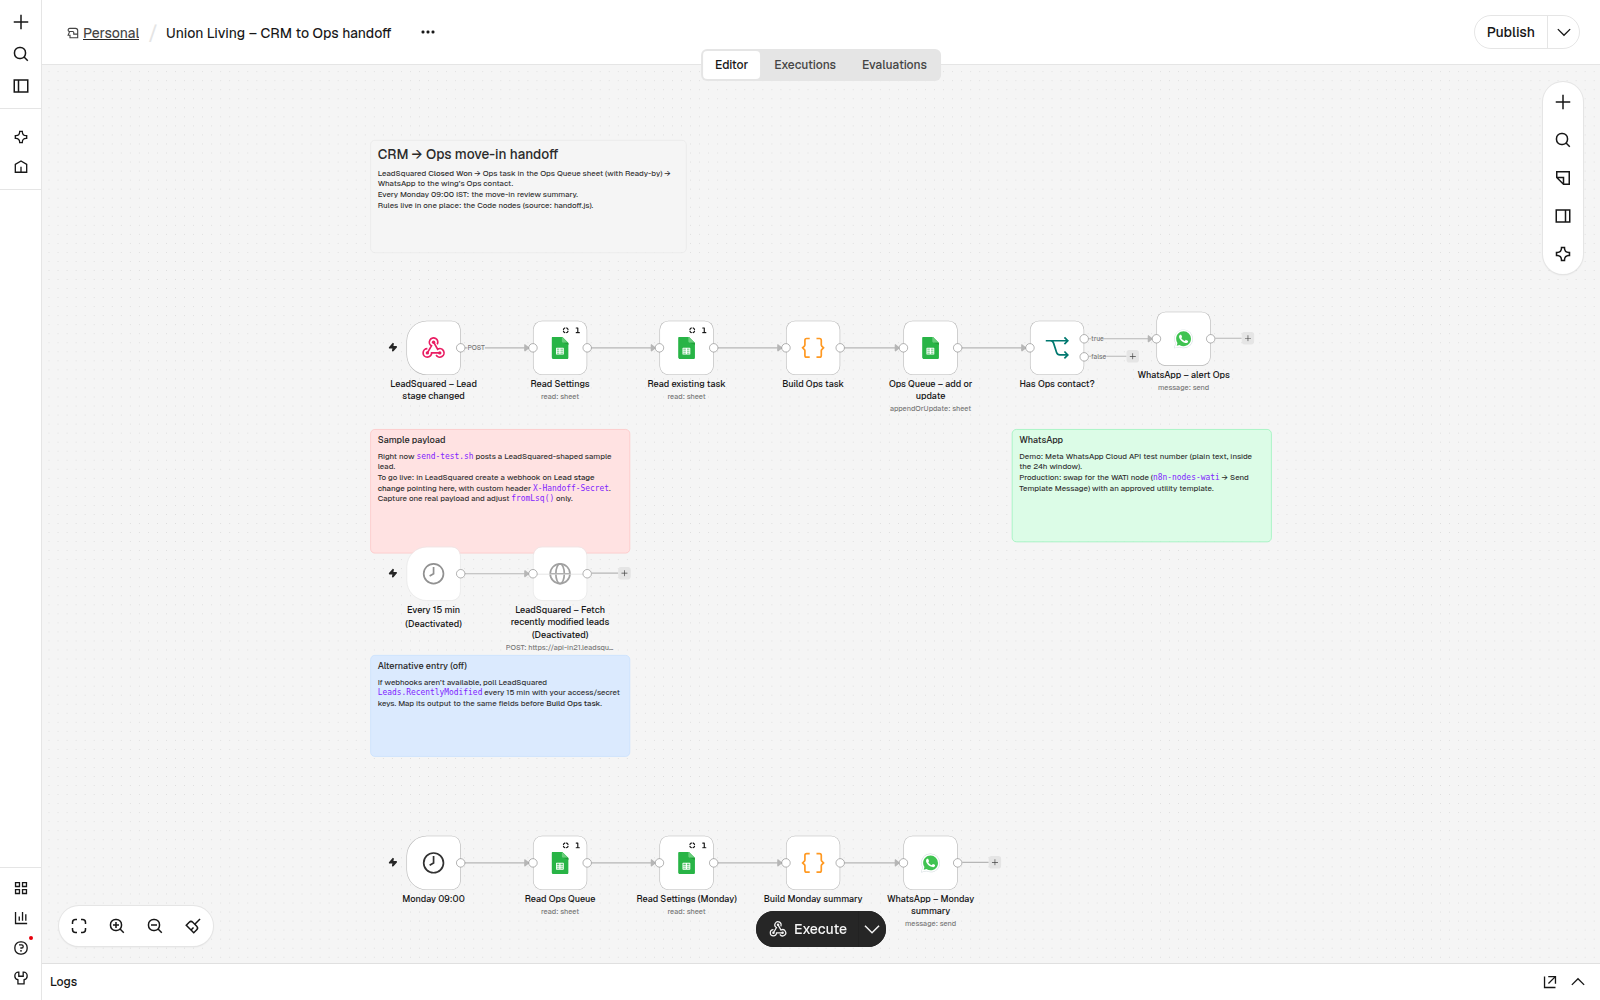
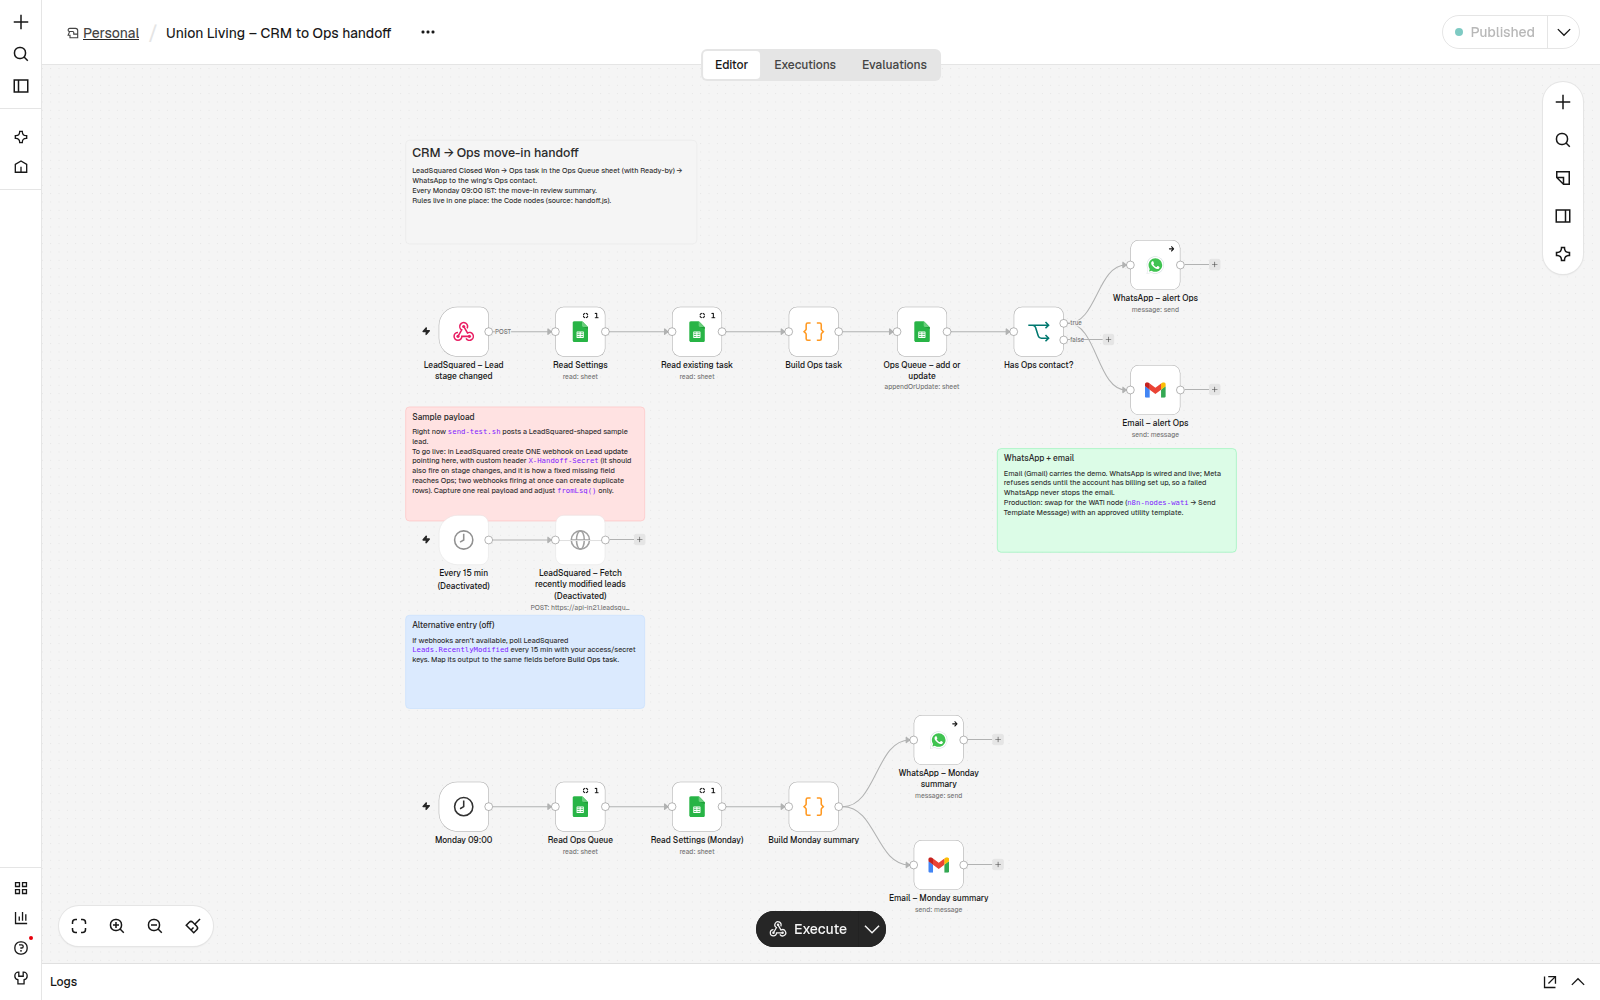
Email alerts alongside WhatsApp; WhatsApp continues on error until Meta billing is set

diff --git a/build.js b/build.js
@@ -13,6 +13,7 @@ const doc = { __rl: true, mode: 'id', value: SHEET_ID };
 const tab = (name) => ({ __rl: true, mode: 'name', value: name });
 const sheetsCred = { googleSheetsOAuth2Api: { id: 'ulGoogleSheets01', name: 'Google Sheets account' } };
 const waCred = { whatsAppApi: { id: 'ulWhatsApp000001', name: 'WhatsApp account' } };
+const gmailCred = { gmailOAuth2: { id: 'ulGmail000000001', name: 'Gmail account' } };
 let n = 0;
 const node = (name, type, typeVersion, position, parameters, extra = {}) =>
   ({ id: `00000000-0000-4000-8000-${String(++n).padStart(12, '0')}`, name, type: `n8n-nodes-base.${type}`, typeVersion, position, parameters, ...extra });
@@ -21,7 +22,10 @@ const sticky = (name, content, position, width, height, color) =>
 const readRows = (name, sheet, position, extra = {}) =>
   node(name, 'googleSheets', 4.7, position, { documentId: doc, sheetName: tab(sheet), options: {} }, { credentials: sheetsCred, alwaysOutputData: true, executeOnce: true, ...extra });
 const whatsapp = (name, position, to, text) =>
-  node(name, 'whatsApp', 1.1, position, { operation: 'send', phoneNumberId: WA_PHONE_ID, recipientPhoneNumber: to, textBody: text, additionalFields: {} }, { credentials: waCred });
+  node(name, 'whatsApp', 1.1, position, { operation: 'send', phoneNumberId: WA_PHONE_ID, recipientPhoneNumber: to, textBody: text, additionalFields: {} }, { credentials: waCred, onError: 'continueRegularOutput' });
+// ponytail: WhatsApp is live but Meta refuses sends until the account has billing; continueRegularOutput keeps the run (and the email) going
+const gmail = (name, position, to, subject, text) =>
+  node(name, 'gmail', 2.1, position, { sendTo: to, subject, emailType: 'text', message: text, options: { appendAttribution: false } }, { credentials: gmailCred, webhookId: `9e1a0000-0000-4000-8000-${String(n + 1).padStart(12, '0')}` });
 
 const BUILD_TASK = `${LOGIC}
 const lead = fromLsq($('LeadSquared – Lead stage changed').first().json.body);
@@ -30,19 +34,20 @@ const stage = (settings.find((s) => s.Role === 'Trigger stage') || {}).Name || '
 if (!isTrigger(lead, stage)) return [];
 const existing = lead.leadId ? ($('Read existing task').all().map((i) => i.json).find((r) => String(r['LSQ Lead ID']) === lead.leadId) || null) : null;
 const t = buildTask(lead, new Date(), settings, existing);
-return [{ json: { ...t.row, _to: t.to || '', _text: t.text } }];`;
+return [{ json: { ...t.row, _to: t.to || '', _email: t.email || '', _subject: t.subject, _text: t.text } }];`;
 
 const BUILD_SUMMARY = `${LOGIC}
 const rows = $('Read Ops Queue').all().map((i) => i.json).filter((r) => r.Status);
 const text = mondaySummary(rows, new Date(), '${SHEET_URL}');
 return $('Read Settings (Monday)').all().map((i) => i.json)
-  .filter((s) => ['Wing Ops', 'Ops Head'].includes(s.Role) && String(s.WhatsApp || '').trim())
-  .map((s) => ({ json: { _to: String(s.WhatsApp).trim(), _text: text } }));`;
+  .filter((s) => ['Wing Ops', 'Ops Head'].includes(s.Role) && (String(s.WhatsApp || '').trim() || String(s.Email || '').trim()))
+  .map((s) => ({ json: { _to: String(s.WhatsApp || '').trim(), _email: String(s.Email || '').trim(), _subject: text.split('\\n')[0], _text: text } }))
+  .filter((m, i, all) => all.findIndex((x) => x._to === m._to && x._email === m._email) === i); // one message per person`;
 
 const nodes = [
   sticky('Note – what this is', '## CRM → Ops move-in handoff\nLeadSquared **Closed Won** → Ops task in the Ops Queue sheet (with Ready-by) → WhatsApp to the wing\'s Ops contact.\nEvery Monday 09:00 IST: the move-in review summary.\nRules live in one place: the Code nodes (source: handoff.js).', [-60, -320], 560, 200, 7),
   sticky('Note – sample payload', '### Sample payload\nRight now `send-test.sh` posts a LeadSquared-shaped sample lead.\nTo go live: in LeadSquared create ONE webhook on **Lead update** pointing here, with custom header `X-Handoff-Secret` (it should also fire on stage changes, and it is how a fixed missing field reaches Ops; two webhooks firing at once can create duplicate rows). Capture one real payload and adjust `fromLsq()` only.', [-60, 190], 460, 220, 3),
-  sticky('Note – WhatsApp', '### WhatsApp\nDemo: Meta WhatsApp Cloud API test number (plain text, inside the 24h window).\nProduction: swap for the WATI node (`n8n-nodes-wati` → Send Template Message) with an approved utility template.', [1060, 190], 460, 200, 4),
+  sticky('Note – WhatsApp', '### WhatsApp + email\nEmail (Gmail) carries the demo. WhatsApp is wired and live; Meta refuses sends until the account has billing set up, so a failed WhatsApp never stops the email.\nProduction: swap for the WATI node (`n8n-nodes-wati` → Send Template Message) with an approved utility template.', [1060, 260], 460, 200, 4),
   sticky('Note – polling', '### Alternative entry (off)\nIf webhooks aren\'t available, poll LeadSquared `Leads.RecentlyModified` every 15 min with your access/secret keys. Map its output to the same fields before **Build Ops task**.', [-60, 590], 460, 180, 5),
 
   node('LeadSquared – Lead stage changed', 'webhook', 2.2, [0, 0], { httpMethod: 'POST', path: 'lsq-lead-stage', authentication: 'headerAuth', responseMode: 'onReceived', options: {} },
@@ -60,12 +65,16 @@ const nodes = [
   node('Has Ops contact?', 'if', 2.2, [1100, 0], {
     conditions: {
       options: { caseSensitive: true, leftValue: '', typeValidation: 'strict', version: 2 },
-      conditions: [{ id: 'c0ffee00-0000-4000-8000-000000000001', leftValue: "={{ $('Build Ops task').item.json._to }}", rightValue: '', operator: { type: 'string', operation: 'notEmpty', singleValue: true } }],
-      combinator: 'and',
+      conditions: [
+        { id: 'c0ffee00-0000-4000-8000-000000000001', leftValue: "={{ $('Build Ops task').item.json._to }}", rightValue: '', operator: { type: 'string', operation: 'notEmpty', singleValue: true } },
+        { id: 'c0ffee00-0000-4000-8000-000000000002', leftValue: "={{ $('Build Ops task').item.json._email }}", rightValue: '', operator: { type: 'string', operation: 'notEmpty', singleValue: true } },
+      ],
+      combinator: 'or',
     },
     options: {},
   }),
-  whatsapp('WhatsApp – alert Ops', [1320, -20], "={{ $('Build Ops task').item.json._to }}", "={{ $('Build Ops task').item.json._text }}"),
+  gmail('Email – alert Ops', [1320, 110], "={{ $('Build Ops task').item.json._email }}", "={{ $('Build Ops task').item.json._subject }}", "={{ $('Build Ops task').item.json._text }}"),
+  whatsapp('WhatsApp – alert Ops', [1320, -120], "={{ $('Build Ops task').item.json._to }}", "={{ $('Build Ops task').item.json._text }}"),
 
   node('Every 15 min', 'scheduleTrigger', 1.2, [0, 400], { rule: { interval: [{ field: 'minutes', minutesInterval: 15 }] } }, { disabled: true }),
   node('LeadSquared – Fetch recently modified leads', 'httpRequest', 4.2, [220, 400], {
@@ -80,7 +89,8 @@ const nodes = [
   readRows('Read Ops Queue', 'Ops Queue', [220, 900]),
   readRows('Read Settings (Monday)', 'Settings', [440, 900]),
   node('Build Monday summary', 'code', 2, [660, 900], { jsCode: BUILD_SUMMARY }),
-  whatsapp('WhatsApp – Monday summary', [880, 900], '={{ $json._to }}', '={{ $json._text }}'),
+  gmail('Email – Monday summary', [900, 1020], '={{ $json._email }}', '={{ $json._subject }}', '={{ $json._text }}'),
+  whatsapp('WhatsApp – Monday summary', [900, 780], '={{ $json._to }}', '={{ $json._text }}'),
 ];
 
 const link = (to) => ({ main: [[{ node: to, type: 'main', index: 0 }]] });
@@ -90,12 +100,12 @@ const connections = {
   'Read existing task': link('Build Ops task'),
   'Build Ops task': link('Ops Queue – add or update'),
   'Ops Queue – add or update': link('Has Ops contact?'),
-  'Has Ops contact?': { main: [[{ node: 'WhatsApp – alert Ops', type: 'main', index: 0 }], []] },
+  'Has Ops contact?': { main: [[{ node: 'WhatsApp – alert Ops', type: 'main', index: 0 }, { node: 'Email – alert Ops', type: 'main', index: 0 }], []] },
   'Every 15 min': link('LeadSquared – Fetch recently modified leads'),
   'Monday 09:00': link('Read Ops Queue'),
   'Read Ops Queue': link('Read Settings (Monday)'),
   'Read Settings (Monday)': link('Build Monday summary'),
-  'Build Monday summary': link('WhatsApp – Monday summary'),
+  'Build Monday summary': { main: [[{ node: 'WhatsApp – Monday summary', type: 'main', index: 0 }, { node: 'Email – Monday summary', type: 'main', index: 0 }]] },
 };
 
 const wf = { id: 'ulOpsHandoff0001', name: 'Union Living – CRM to Ops handoff', active: false, nodes, connections, settings: { timezone: 'Asia/Kolkata', executionOrder: 'v1' }, pinData: {} };

diff --git a/handoff.js b/handoff.js
@@ -84,9 +84,10 @@ function readyBy(moveIn, receivedAt) {
 
 function contactFor(wing, settings) {
   const s = settings || [];
-  const c = s.find((r) => r.Role === 'Wing Ops' && String(r.Wing).trim().toUpperCase() === wing && clean(r.WhatsApp))
-    || s.find((r) => r.Role === 'Ops Head' && clean(r.WhatsApp));
-  return c ? { Name: c.Name, WhatsApp: clean(c.WhatsApp) } : null;
+  const reachable = (r) => clean(r.WhatsApp) || clean(r.Email);
+  const c = s.find((r) => r.Role === 'Wing Ops' && String(r.Wing).trim().toUpperCase() === wing && reachable(r))
+    || s.find((r) => r.Role === 'Ops Head' && reachable(r));
+  return c ? { Name: c.Name, WhatsApp: clean(c.WhatsApp), Email: clean(c.Email) } : null;
 }
 
 const REQUIRED = [['leadId', 'lead id'], ['tenant', 'tenant name'], ['phone', 'phone'], ['wing', 'wing'], ['room', 'room'], ['bed', 'bed'], ['gender', 'gender'], ['moveIn', 'move-in date'], ['owner', 'sales owner']];
@@ -112,8 +113,10 @@ function buildTask(lead, receivedAt, settings, existing) {
   const when = mv ? `Move-in ${nice(mv)}, room Ready by ${nice(due, true)}.` : 'Move-in date not set.';
   let text = `New move-in: ${q(lead.tenant)} (${q(lead.gender)}), Wing ${q(lead.wing)} ${q(lead.flat)} ${q(lead.room)} bed ${q(lead.bed)}. ${when} Sales: ${q(lead.owner)}.`;
   if (row.Flags) text = `⚠ ${row.Flags}. ${text}`;
-  if (existing) text = `Updated: ${text}`;
-  return { row, to: c ? c.WhatsApp : null, text };
+  let subject = `New move-in: ${q(lead.tenant)}, Wing ${q(lead.wing)} ${q(lead.flat)} ${q(lead.room)} bed ${q(lead.bed)} – ${mv ? `ready by ${nice(due, true)}` : 'no move-in date'}`;
+  if (row.Flags) subject = `⚠ ${subject}`;
+  if (existing) { text = `Updated: ${text}`; subject = `Updated: ${subject}`; }
+  return { row, to: (c && c.WhatsApp) || null, email: c ? c.Email : '', subject, text };
 }
 
 // Monday agenda for the 10-minute move-in review.

diff --git a/handoff.test.js b/handoff.test.js
@@ -75,4 +75,11 @@ assert.match(noId.row.Flags, /Missing: lead id/); assert.match(noId.row['LSQ Lea
 // 4. impossible dates are treated as missing, not rolled over
 assert.equal(fromLsq({ ...base, mx_Move_in_Date: '31/2/2026' }).moveIn, '');
 assert.equal(fromLsq({ ...base, mx_Move_in_Date: '2026-02-30' }).moveIn, '');
+// email channel: a contact with only an Email still counts; alerts carry a subject
+const SE = [{ Role: 'Wing Ops', Wing: 'A', Name: 'Asha', WhatsApp: '', Email: 'asha@example.com' }];
+const e = buildTask(L, now, SE, null);
+assert.equal(e.to, null); assert.equal(e.email, 'asha@example.com'); assert.equal(e.row.Flags, '');
+assert.equal(e.subject, 'New move-in: Priya S, Wing A A-204 R1 bed 2 – ready by Fri 30 Oct 18:00');
+assert.equal(t.subject, '⚠ New move-in: Priya S, Wing A A-204 R1 bed 2 – no move-in date');
+assert.equal(ok.email, '');
 console.log('handoff ok');

diff --git a/docs/index.md b/docs/index.md
@@ -1,7 +1,7 @@
 # CRM → Ops move-in handoff
 
 A small n8n automation for a co-living operator. When Sales closes a booking in LeadSquared, Ops hears about it
-within seconds, with the date the room has to be ready. Every Monday morning there's a summary of what's coming
+within seconds (WhatsApp and email), with the date the room has to be ready. Every Monday morning there's a summary of what's coming
 up and what's overdue.
 
 ## The problem
@@ -28,7 +28,7 @@ This workflow makes that process run without anyone having to remember it.
 2. The workflow checks what Ops needs (bed, move-in date, gender, sales owner, phone) and flags anything missing in plain words.
 3. It works out **Ready-by**, the time the room must be ready ([rules](how-it-works.md#ready-by-rule)).
 4. It adds the task to the **Ops Queue** Google Sheet, or updates it if the same lead comes in again.
-5. It sends a WhatsApp to that wing's Ops contact.
+5. It alerts that wing's Ops contact on WhatsApp and by email.
 6. **Every Monday at 09:00 IST**, everyone listed gets the move-in review.
 
 Ops closes the loop in the Sheet by changing Status: `Pending Move In → Ready → Moved In`. There's no new app to learn.
@@ -66,7 +66,8 @@ Full list: <sheet link>
 |---|---|
 | Rules (Ready-by, flags, Monday summary) | Built and tested, in Node and inside n8n |
 | Workflow in n8n | Built, imported, webhook live with a secret header |
-| Google Sheet + WhatsApp end-to-end | Waiting on account setup |
+| Email alerts + Google Sheet end-to-end | Waiting on Google sign-in |
+| WhatsApp alerts | Wired and switched on. Meta refuses sends until the WhatsApp account has billing set up, so a failed WhatsApp never stops the email |
 | Real LeadSquared connection | Sample payloads only. The field names are an assumption until one real payload is captured |
 
 Next: [how it works](how-it-works.md) · [set it up](setup.md)

diff --git a/docs/how-it-works.md b/docs/how-it-works.md
@@ -11,7 +11,8 @@ flowchart LR
   B -->|yes| Q[Ops Queue sheet<br/>add or update]
   Q --> C{Ops contact?}
   C -->|yes| W[WhatsApp alert]
-  M[Monday 09:00] --> R[Read Ops Queue] --> RS[Read Settings] --> SUM[Build summary] --> W2[WhatsApp to each contact]
+  C -->|yes| G[Email alert]
+  M[Monday 09:00] --> R[Read Ops Queue] --> RS[Read Settings] --> SUM[Build summary] --> W2[WhatsApp + email to each contact]
 ```
 
 All the business rules live in one file, `handoff.js`. `build.js` copies it into the workflow's Code nodes, so the
@@ -72,7 +73,8 @@ It goes to every Ops contact listed in Settings, as the agenda for the Monday re
   - Every lead is invented. `send-test.sh` posts a LeadSquared-shaped lead.
   - The LeadSquared field names (`ProspectID`, `mx_Wing`, `mx_Move_in_Date`, ...) are an assumption. To go live,
     capture one real webhook payload and change `fromLsq()` in `handoff.js`. It's the only place that knows those names.
-  - WhatsApp uses Meta's free test number. In production it would go through a WhatsApp provider such as WATI
+  - WhatsApp uses Meta's free test number. Meta currently refuses sends until the account has billing set up, so email carries the demo; each WhatsApp step is set to continue on error.
+    Settings has an `Email` column; a contact needs a WhatsApp number or an email. In production it would go through a WhatsApp provider such as WATI
     (`n8n-nodes-wati`, Send Template Message) with an approved message template.
 
 ## Files

diff --git a/docs/setup.md b/docs/setup.md
@@ -26,14 +26,14 @@ Received at, LSQ Lead ID, Tenant, Phone, Gender, Wing, Flat, Room, Bed, Room Cat
 - Format `Received at`, `Move-in date` and `Ready-by` as plain text (Format → Number → Plain text). Otherwise dates
   that Ops retypes won't count in the Monday summary.
 
-**`Settings`**: headers `Role, Wing, Name, WhatsApp`:
+**`Settings`**: headers `Role, Wing, Name, WhatsApp, Email`:
 
-| Role | Wing | Name | WhatsApp |
-|---|---|---|---|
-| Trigger stage | | Closed Won | |
-| Wing Ops | A | *name* | *number* |
-| Wing Ops | B | *name* | *number* |
-| Ops Head | | *name* | *number* |
+| Role | Wing | Name | WhatsApp | Email |
+|---|---|---|---|---|
+| Trigger stage | | Closed Won | | |
+| Wing Ops | A | *name* | *number* | *email* |
+| Wing Ops | B | *name* | *number* | *email* |
+| Ops Head | | *name* | *number* | *email* |
 
 - Format the WhatsApp column as plain text, and write numbers with the country code, e.g. `919800000001`.
 - `Ops Head` is the fallback when a wing has no contact.
@@ -41,7 +41,7 @@ Received at, LSQ Lead ID, Tenant, Phone, Gender, Wing, Flat, Room, Bed, Room Cat
 
 ## 3. Credentials in n8n
 
-- **Google Sheets OAuth2:**
+- **Google Sheets OAuth2 and Gmail OAuth2** (one OAuth client covers both; enable the Sheets, Drive and Gmail APIs):
   1. In Google Cloud, create an OAuth client with redirect URI `http://localhost:5678/rest/oauth2-credential/callback`.
   2. Add the credential in n8n and sign in.
 - **WhatsApp:**
